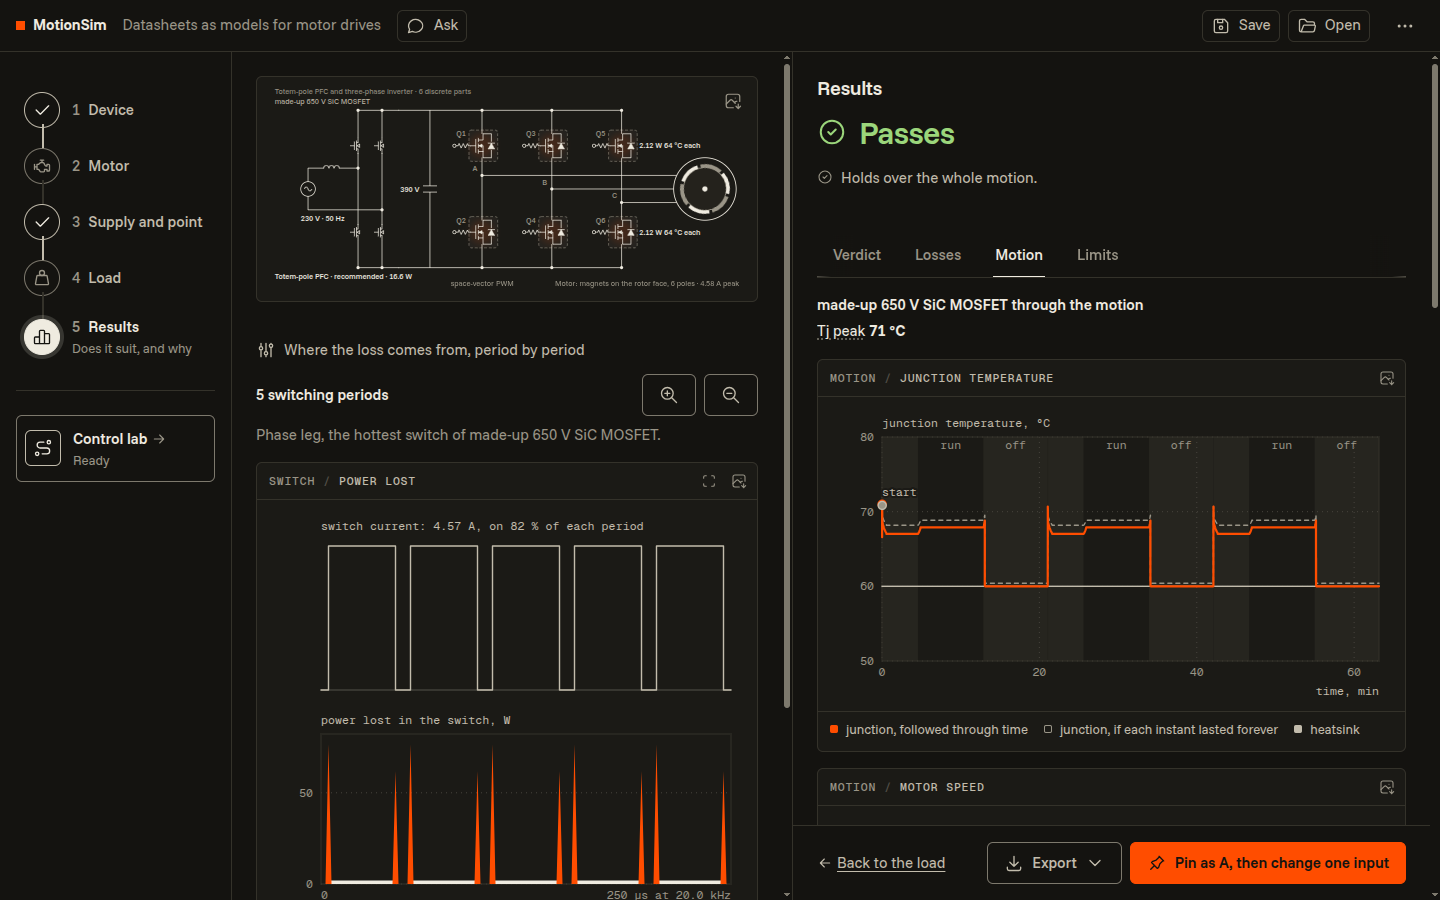
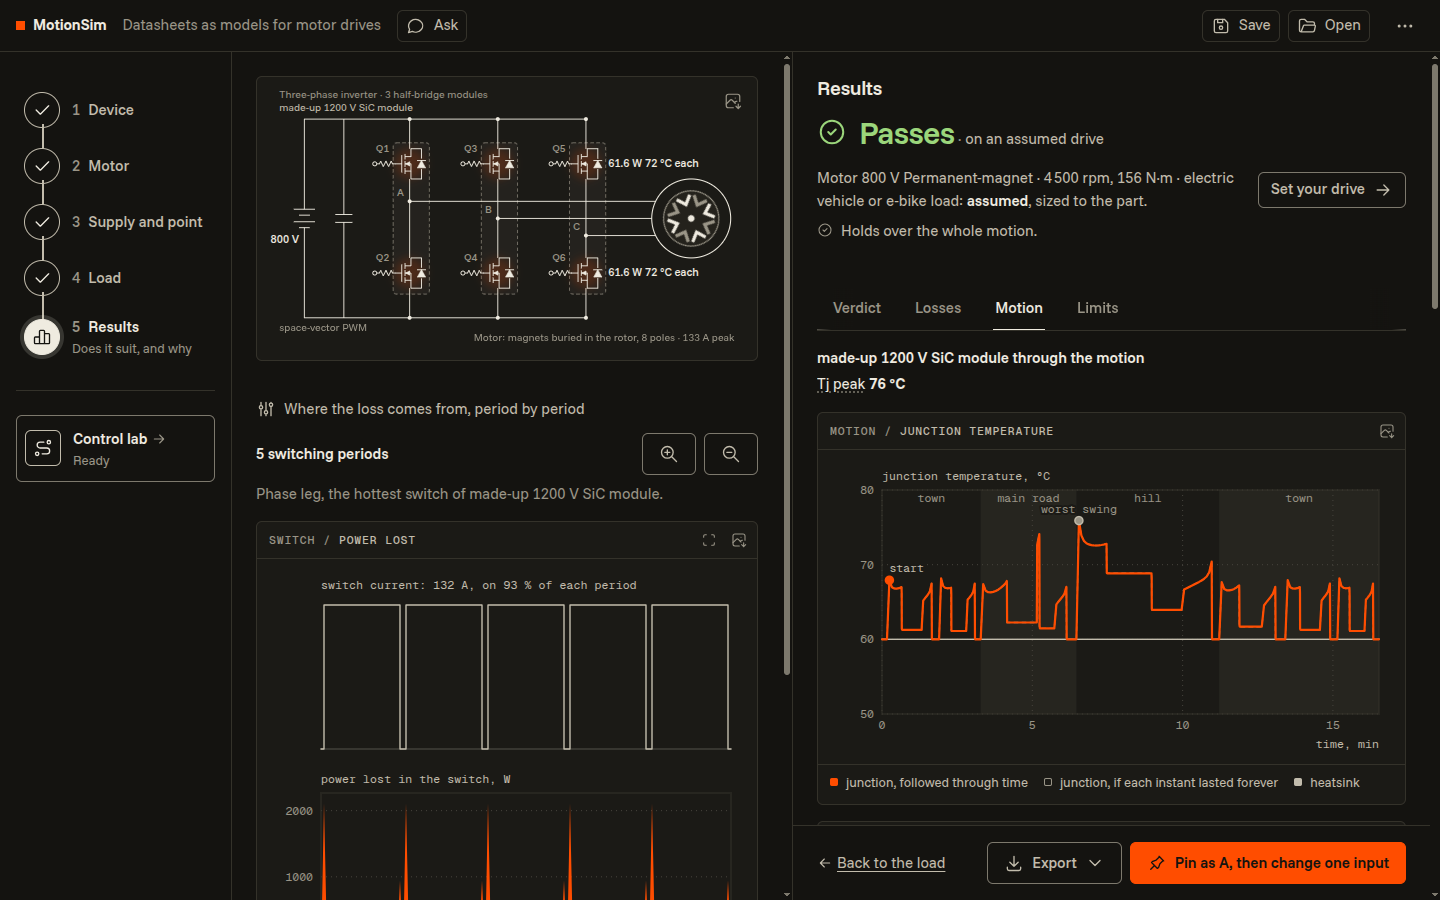
README: everything in one place, an electric car's drive worked through with its graphs, and AI agents

diff --git a/README.md b/README.md
@@ -2,20 +2,25 @@
 
 [![ci](https://github.com/yannickYamo/MotionSim/actions/workflows/ci.yml/badge.svg)](https://github.com/yannickYamo/MotionSim/actions/workflows/ci.yml)
 
-MotionSim is an open-source simulator for motor drives. Give it a power transistor from any semiconductor manufacturer, a motor and a load, and it tells you what the part loses, how hot it runs and whether it holds. It covers the whole drive, from the mains to the control code.
+MotionSim is an open-source simulator for motor drives. Give it a power transistor from any semiconductor manufacturer, a motor and a load, and it tells you what the part loses, how hot it runs and whether it holds. One physical model covers the whole drive: the switching edges, the losses and the junction temperature, the mains front end, the motor, and the control loop down to its C code.
 
 [Try it in your browser](https://yannickyamo.github.io/MotionSim/): nothing to install, no account, and nothing you enter leaves the page.
 
-![The MotionSim page for a 650 V SiC MOSFET driving a compressor from the mains: the front end and the inverter drawn on the left with each switch's loss and temperature; on the right the verdict in one word, then loss, hottest junction and load margin](https://raw.githubusercontent.com/yannickYamo/MotionSim/main/docs/images/page.png)
+![The MotionSim page for a 1200 V SiC module driving an electric car's motor from an 800 V battery: the inverter drawn with each switch's loss and temperature, the verdict in one word, then loss, hottest junction and load margin](https://raw.githubusercontent.com/yannickYamo/MotionSim/main/docs/images/page.png)
 
-## The problem
+## Everything in one place
 
-Choosing a power transistor at the start of a motor drive takes about a week, and the answer is still hard to stand behind.
+A drive is usually designed in pieces: a loss calculator from each semiconductor manufacturer, a circuit simulator for the stage, a control toolbox for the loop, and a spreadsheet to hold them together. Each has its own model, and none knows what the others assumed.
 
-- **Every semiconductor manufacturer's calculator knows only its own parts.** To put an IGBT from one beside a SiC MOSFET from another, you build both models by hand.
-- **It asks for what you do not have.** A modulation index and a power factor, when what you have is a motor, a supply and a load.
-- **It gives one number.** Nothing on what the number rests on, or on what the datasheet left out.
-- **It stops at one operating point.** A heatsink takes minutes to warm, and a washing machine's slow tumble is harder on the junction than its spin.
+MotionSim is one tool and one simulation, from the circuit to the code:
+
+- **Choose the part.** Any manufacturer's transistor, modelled from its own datasheet and compared on your duty.
+- **Design the stage.** Losses, junction temperatures, gate drive, DC link and the mains front end.
+- **Match the motor.** Seven kinds of motor, each run through its real load from start-up until the heatsink is warm.
+- **Find the best control.** Twenty-four schemes, tuned for your motor, simulated switch by switch and compared on what they cost the power stage.
+- **Export the code.** The control law as C, checked against the simulation, for your microcontroller.
+
+Change one figure and every answer follows, because it is the same model all the way down.
 
 ## The infrastructure
 
@@ -45,34 +50,52 @@ Five steps, one page, the power stage drawn on screen the whole time.
 
 From there, open the control lab, close the loop and take the code.
 
-### One question, start to finish
+### One design, start to finish
 
-*Can a 650 V SiC MOSFET run an air-conditioner compressor from a wall socket?* The part here is made up; the figures are the tool's own.
+*A 1200 V SiC module, an eight-pole interior-magnet motor, an 800 V battery: can it drive an electric car, and what is the best way to control it?* The part is made up; every figure and graph below is the tool's own.
 
-**1. Pick the part.** It opens on a compressor motor at 4200 rpm and 2.05 N·m, about 900 W at the shaft.
+**1. The verdict.** Passes. At 4500 rpm and 156 N·m the six switches lose 369 W, 220 W of it in switching, at 98.4 % efficiency with the motor's windings. The hottest junction is 82 °C, at standstill, and the part would carry 1.74 times this load.
 
-**2. Put it on the mains.** MotionSim recommends the stage between the socket and the DC link, and says why: a totem-pole PFC, 16.6 W lost against 24.5 W for a boost stage. The motor needs only 262 V, so it offers a lower link that saves another 1.73 W.
+**2. The drive cycle.** Town, main road, a hill, and town again. The junction is followed through all of it, with the worst swing marked, and braking puts 3.73 MJ back in the battery.
 
-![Step 3 with AC mains chosen: 230 V, one phase, a totem-pole PFC recommended with its loss and the reason, and the offer to hold a lower link](https://raw.githubusercontent.com/yannickYamo/MotionSim/main/docs/images/supply.png)
+![The Motion tab: the junction temperature through a drive of town, main road, a hill and town again, the start and the worst swing marked](https://raw.githubusercontent.com/yannickYamo/MotionSim/main/docs/images/motion.png)
 
-**3. Read the verdict.** Passes. The inverter loses 12.7 W, the hottest junction reaches 71 °C, 104 K under its rating, and the load could be 1.28 times heavier.
+**3. One switching edge.** Press a spike on the loss chart and the turn-off opens as an oscilloscope would show it: 132 A cut off, the voltage overshooting to 895 V on an 800 V link, then ringing out. The turn-on sits beside it, with di/dt, dv/dt and the energy of each.
 
-**4. Follow it through an hour.** A compressor starts, pulls down, holds and stops, three times an hour. The junction is drawn through all of it.
+![A turn-off through time: the drain current falling from 132 A as the drain-source voltage rises, overshoots to 895 V and rings, against the 1200 V rating](https://raw.githubusercontent.com/yannickYamo/MotionSim/main/docs/images/event.png)
 
-![The Motion tab: the junction temperature through an hour of three compressor runs, the start marked, against the heatsink](https://raw.githubusercontent.com/yannickYamo/MotionSim/main/docs/images/motion.png)
+**4. The control.** The control lab opens on torque control with least current and field weakening, every gain tuned for this motor, and runs it switch by switch. It passes, and points at the switching loss: a modulation that clamps each leg at its current peak would cut it.
 
-**5. Close the loop.** A compressor has no encoder, so the control lab picks a sensorless scheme, tunes it and runs it switch by switch with the PFC stage holding the link. The link holds within 5.3 V, and the lab offers a modulation that takes the switching loss toward 6.4 W.
+![The control lab: the scheme as a block diagram from the command to the motor, the verdict of the run and the three phase currents](https://raw.githubusercontent.com/yannickYamo/MotionSim/main/docs/images/control.png)
 
-![The control lab: the scheme as a block diagram from the command to the motor, the mains and the PFC stage under it, the verdict of the run and the phase currents](https://raw.githubusercontent.com/yannickYamo/MotionSim/main/docs/images/control.png)
+**5. A better scheme.** Pick the traction scheme with the clamp placed for least switching loss and run again: 255 W in place of 369 W, the switching loss halved to 113 W and the junction 4 K cooler, with the current's distortion going from 1.77 % to 2.24 %.
 
-Change any figure and every answer follows.
+**6. The loop, in frequency.** The Laplace lens gives the same loop its Bode plot, margins, step and poles: 62.8° of phase margin, 10 dB of gain margin, a 2.25 kHz bandwidth.
+
+![The Laplace lens: bandwidth, phase margin, gain margin and crossover, the Bode plot of the current loop with its margins marked, and the step it predicts](https://raw.githubusercontent.com/yannickYamo/MotionSim/main/docs/images/laplace.png)
+
+**7. The code.** Export the scheme as C, with a replay that checks it against the run.
 
 ## Outcomes
 
-- **A part chosen in minutes.** Up to five parts, from any manufacturers, side by side on your own duty.
+- **A part chosen on your own duty.** Up to five parts, from any manufacturers, side by side.
 - **An answer you can stand behind.** Every figure opens on its equation and its datasheet page. Where the datasheet cannot settle it, you are told what to measure.
 - **Thermal trouble found before the prototype.** The hottest moment of the real duty, and the life that cycling leaves.
 - **A drive, not only a part.** The front end, the tuned control and the C that runs it, from the same design.
+
+## Built for AI agents
+
+MotionSim runs an MCP server beside the page. Connect Claude Code, or any MCP client, and your agent works on the same design you see:
+
+```
+claude mcp add --transport http motionsim http://localhost:4310/mcp --header "Authorization: Bearer <code>"
+```
+
+- **It reads what you see.** The design, the results, the scheme's blocks and gains, the loop margins and the traces of the last run.
+- **It does what you do.** Chooses a part, changes a figure, switches the scheme, retunes a gain, runs a test or a sweep, exports the report and the C.
+- **You stay in control.** Every change shows on your page as it happens, with **Undo**, and is listed in the agent's activity.
+
+Ask it to review the design, to tune the current loop for more phase margin, or to find the lowest-loss scheme. The server runs on your machine only. With no page at all, `motionsim agent` prints the guide for driving MotionSim from a terminal. See [docs/MCP.md](https://github.com/yannickYamo/MotionSim/blob/main/docs/MCP.md).
 
 ## Your own parts
 
@@ -84,7 +107,7 @@ uvx --from git+https://github.com/yannickYamo/MotionSim motionsim serve
 
 The datasheet is read by a language model you choose, with your own key, or by one you host. The project runs no server: your files go from your machine to your model and nowhere else.
 
-It also runs from a terminal, with no datasheet and no key:
+From a terminal, with no datasheet and no key:
 
 ```
 motionsim simulate example --vdc 300 --irms 10 --m 0.9 --pf 0.85 --fsw 8000 --tsink 60
